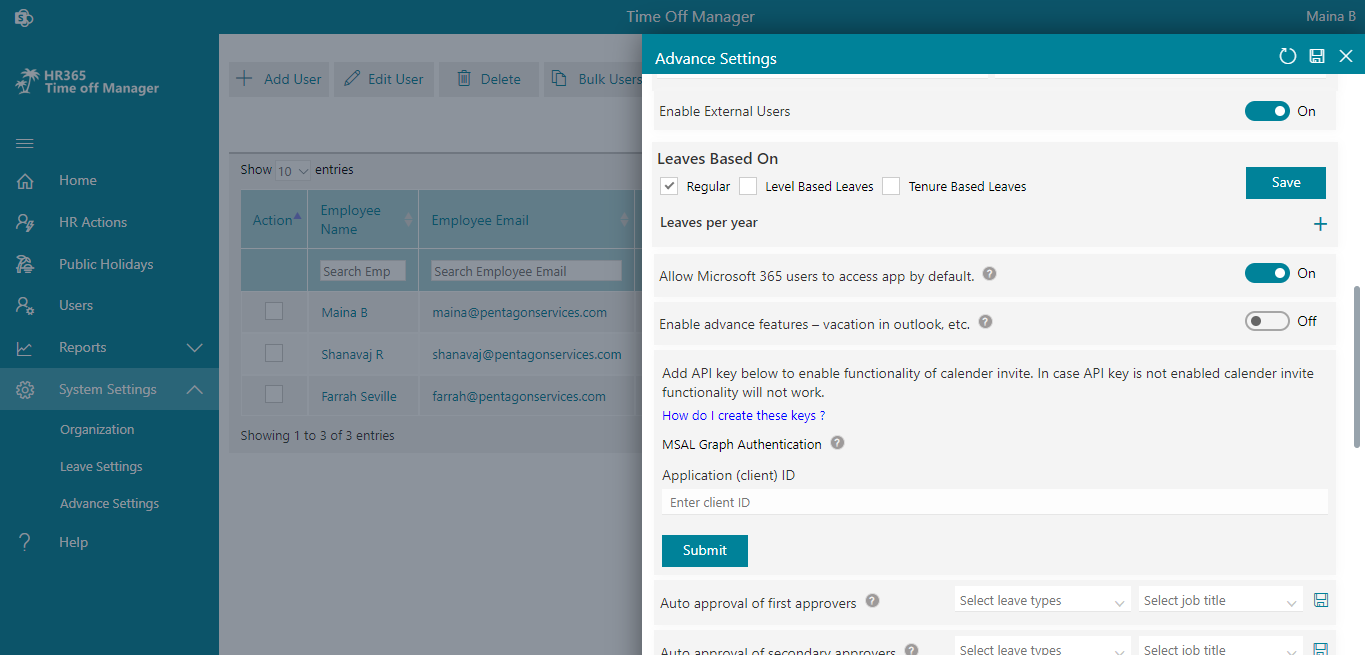
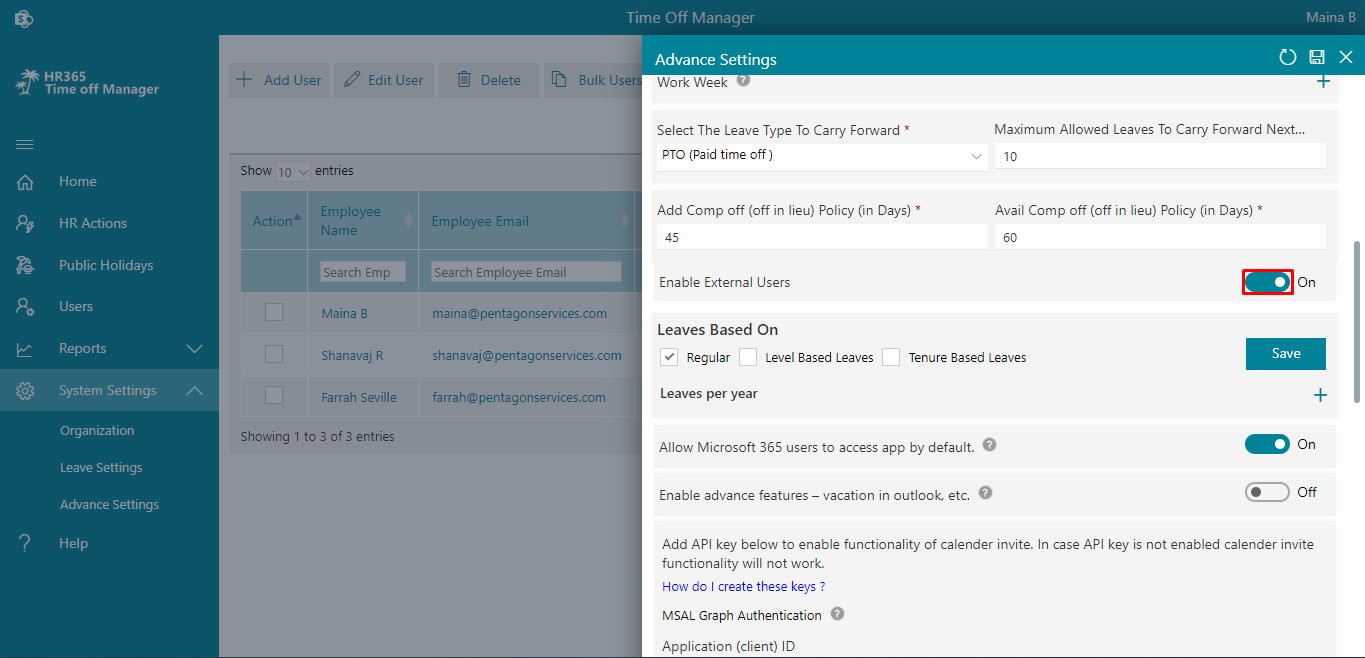
update content

diff --git a/time-off-manager/Guide/admin-guide/setting/advance/index.html b/time-off-manager/Guide/admin-guide/setting/advance/index.html
@@ -276,11 +276,27 @@
                <br>
                <img src="avail_comp_off.png" onclick="openModal('avail_comp_off.png')" alt="" width="100%">
                <br><br>
-               <li><h6>Enable External Users</h6>Here, you will find all the information of the users leave balance and can check leave of users based on department and location. You can also generate the report by clicking on export button.</li>
+               <li><h6>Enable External Users</h6>You can enable it if you want to allow external users.</li>
                <br>
-               <img src="calculate.png" onclick="openModal('calculate.png')" alt="" width="100%">
+               <img src="external_users.png" onclick="openModal('external_users.png')" alt="" width="100%">
                <br><br>
-               <li><h6>Leaves Based On</h6>Here, you will find all the information of the users leave balance and can check leave of users based on department and location. You can also generate the report by clicking on export button.</li>
+               <li><h6>Leaves Based On</h6>Leaves are based on 3 categories: If you want to enable it just select check box and click on save button.
+            <br>
+        <ol>
+            <li>
+                <b>Regular</b>: Here you can enter the total number of leaves. This leave allocates for all users based on date of joining and accrued (optional). If you want change leave for particular user, it can we done from user page.
+            </li>
+            <br>
+            <li>
+                <b>Level Based Leaves: If this is enabled, level-based leaves and grades options 
+                    Will display under systems settings from where we have to first define grades for different job tile in grades then we have added leaves numbers for such grades from leave based option 
+                    </b>
+            </li>
+            <br>
+            <li>
+                Tenure Based Leaves: If this is enabled, tenure-based leaves options., will display under systems settings from we you can assign leaves based on tenure.
+            </li>
+        </ol></li>
                <br>
                <img src="calculate.png" onclick="openModal('calculate.png')" alt="" width="100%">
                <br><br>
